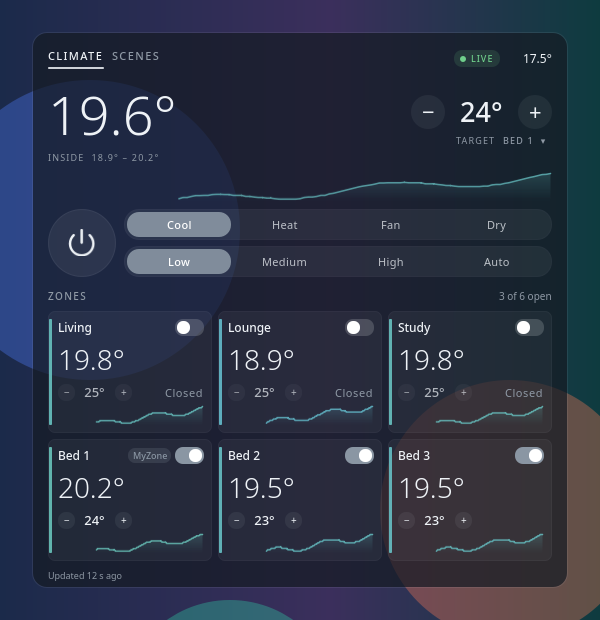
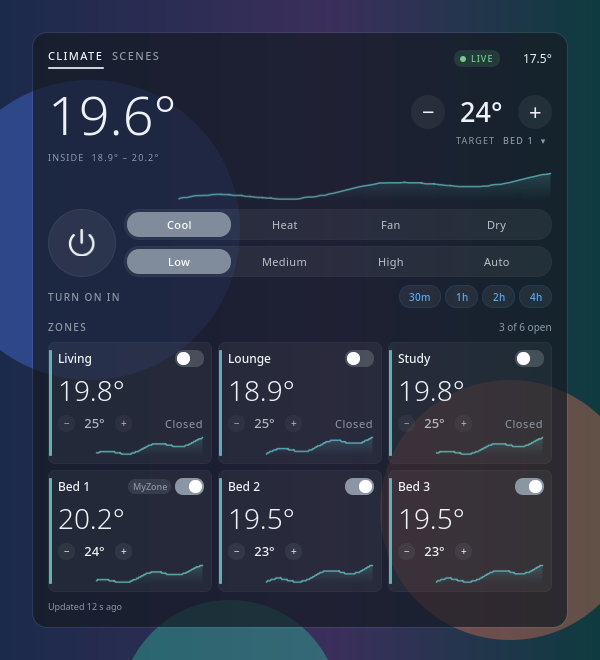
feat: quick on/off timer on the climate page
Presets of 30 min to 4 h set the unit's countDownToOff (while running)
or countDownToOn (while off); a running timer shows the time left with
+30m and Cancel. Taps within 600 ms of a timer change are ignored, since
the buttons swap places under the pointer.

diff --git a/contents/ui/DeckView.qml b/contents/ui/DeckView.qml
@@ -117,6 +117,25 @@ Item {
             client.command(cmd, 0, true);
     }
 
+    // 85 -> "1 h 25 min"; compact: 30 -> "30m", 120 -> "2h".
+    function duration(minutes, compact) {
+        const h = Math.floor(minutes / 60), m = minutes % 60;
+        if (compact)
+            return h === 0 ? i18n("%1m", m) : m === 0 ? i18n("%1h", h) : i18n("%1h %2m", h, m);
+        return h === 0 ? i18n("%1 min", m) : m === 0 ? i18n("%1 h", h) : i18n("%1 h %2 min", h, m);
+    }
+
+    // The buttons swap places when a timer starts or stops, so a fast second
+    // click would land on a different one; ignore it.
+    property double lastTimerTap: 0
+    function setCountdown(minutes) {
+        const now = Date.now();
+        if (now - lastTimerTap < 600)
+            return;
+        lastTimerTap = now;
+        client.command(MyPlace.countdownPayload(info, minutes), 0);
+    }
+
     // A short message over the footer; errors show in red.
     function notify(message, isError) {
         toast.message = message;
@@ -490,6 +509,62 @@ Item {
                     }
                 }
 
+                // Quick timer: the unit's own countdown to off (while on) or on.
+                RowLayout {
+                    id: timerRow
+                    objectName: "timerRow"
+                    readonly property int remaining: MyPlace.countdownMinutes(root.info)
+                    readonly property color tone: root.unitOn ? root.accent : root.modeAccents[root.info.mode] || root.colors.neutral
+                    Layout.fillWidth: true
+                    spacing: Kirigami.Units.smallSpacing
+                    Controls.Label {
+                        text: timerRow.remaining > 0
+                            ? (root.unitOn ? i18n("OFF IN") : i18n("ON IN"))
+                            : (root.unitOn ? i18n("TURN OFF IN") : i18n("TURN ON IN"))
+                        color: timerRow.remaining > 0 ? timerRow.tone : root.colors.muted
+                        font.pixelSize: Kirigami.Units.gridUnit * 0.55
+                        font.weight: Font.DemiBold
+                        font.letterSpacing: 1.4
+                    }
+                    Controls.Label {
+                        visible: timerRow.remaining > 0
+                        text: root.duration(timerRow.remaining)
+                        color: root.colors.ink
+                        font.pixelSize: Kirigami.Units.gridUnit * 0.75
+                        font.features: { "tnum": 1 }
+                    }
+                    Item { Layout.fillWidth: true }
+                    Repeater {
+                        model: timerRow.remaining > 0 ? [] : [30, 60, 120, 240]
+                        delegate: PillButton {
+                            required property int modelData
+                            objectName: "timer" + modelData
+                            text: root.duration(modelData, true)
+                            ink: root.colors.ink
+                            tone: timerRow.tone
+                            interactive: root.canControl
+                            onClicked: root.setCountdown(modelData)
+                        }
+                    }
+                    PillButton {
+                        visible: timerRow.remaining > 0
+                        text: i18n("+30m")
+                        ink: root.colors.ink
+                        tone: timerRow.tone
+                        interactive: root.canControl && timerRow.remaining < MyPlace.MAX_COUNTDOWN
+                        onClicked: root.setCountdown(timerRow.remaining + 30)
+                    }
+                    PillButton {
+                        objectName: "timerCancel"
+                        visible: timerRow.remaining > 0
+                        text: i18n("Cancel")
+                        ink: root.colors.ink
+                        tone: root.colors.ink
+                        interactive: root.canControl
+                        onClicked: root.setCountdown(0)
+                    }
+                }
+
                 RowLayout {
                     Layout.fillWidth: true
                     Layout.topMargin: Kirigami.Units.smallSpacing
@@ -558,18 +633,6 @@ Item {
                         color: root.colors.bad
                         font.pixelSize: Kirigami.Units.gridUnit * 0.52
                         font.weight: Font.DemiBold
-                    }
-                    Controls.Label {
-                        visible: root.unitOn && root.info.countDownToOff > 0
-                        text: i18n("Off in %1 min", root.info.countDownToOff)
-                        color: root.colors.muted
-                        font.pixelSize: Kirigami.Units.gridUnit * 0.52
-                    }
-                    Controls.Label {
-                        visible: !root.unitOn && root.info.countDownToOn > 0
-                        text: i18n("On in %1 min", root.info.countDownToOn)
-                        color: root.colors.muted
-                        font.pixelSize: Kirigami.Units.gridUnit * 0.52
                     }
                 }
                 Item { Layout.fillHeight: true }

diff --git a/tests/tst_view.qml b/tests/tst_view.qml
@@ -82,4 +82,30 @@ TestCase {
         verify(deck.zones.find(z => z.key === "z01").isMyZone);
         verify(findChild(deck, "myZoneChip").visible);
     }
+
+    function test_quick_timer() {
+        tablet.log = [];
+        // Unit is off in the fixture, so presets set the turn-on countdown.
+        const preset = findChild(deck, "timer60");
+        verify(preset !== null && preset.visible);
+        mouseClick(preset);
+        compare(JSON.stringify(tablet.commands()), '[{"ac1":{"info":{"countDownToOn":60}}}]');
+        compare(deck.duration(60), "1 h");
+        compare(deck.duration(85), "1 h 25 min");
+        compare(deck.duration(90, true), "1h 30m");
+        // The tablet reports it counting down; Cancel sends 0.
+        tablet.system.aircons.ac1.info.countDownToOn = 59;
+        client.poll();
+        const cancel = findChild(deck, "timerCancel");
+        tryVerify(() => cancel.visible);
+        waitForRendering(deck);
+        deck.lastTimerTap = 0;
+        tablet.log = [];
+        mouseClick(cancel);
+        compare(JSON.stringify(tablet.commands()), '[{"ac1":{"info":{"countDownToOn":0}}}]');
+        // An immediate second click on whatever replaced Cancel is ignored.
+        waitForRendering(deck);
+        mouseClick(findChild(deck, "timer240"));
+        compare(tablet.commands().length, 1);
+    }
 }

diff --git a/contents/ui/myplace.js b/contents/ui/myplace.js
@@ -373,3 +373,23 @@ function validSceneName(name) {
     var n = String(name || "").trim();
     return n.length > 0 && n.length <= 12 && n.indexOf("\\") < 0;
 }
+
+// ---- Quick timer --------------------------------------------------------------
+// The unit's own countdowns: minutes until it turns off (while on) or on (while off).
+
+var MAX_COUNTDOWN = 720;
+
+function countdownField(info) {
+    return info && info.state === "on" ? "countDownToOff" : "countDownToOn";
+}
+
+function countdownMinutes(info) {
+    var m = Number(info ? info[countdownField(info)] : 0);
+    return isFinite(m) && m > 0 ? m : 0;
+}
+
+function countdownPayload(info, minutes) {
+    var out = { info: {} };
+    out.info[countdownField(info)] = Math.max(0, Math.min(MAX_COUNTDOWN, Math.round(Number(minutes) || 0)));
+    return out;
+}

diff --git a/tests/tst_myplace.qml b/tests/tst_myplace.qml
@@ -145,4 +145,13 @@ TestCase {
         compare(p.aircons.ac1.zones.z04.setTemp, 24);
         compare(p.lights, undefined); // only what we manage
     }
+
+    function test_countdown() {
+        compare(MyPlace.countdownField({ state: "on" }), "countDownToOff");
+        compare(MyPlace.countdownField({ state: "off" }), "countDownToOn");
+        compare(MyPlace.countdownMinutes({ state: "on", countDownToOff: 45, countDownToOn: 9 }), 45);
+        compare(MyPlace.countdownMinutes({ state: "off", countDownToOn: 0 }), 0);
+        compare(JSON.stringify(MyPlace.countdownPayload({ state: "off" }, 900)), '{"info":{"countDownToOn":720}}');
+        compare(JSON.stringify(MyPlace.countdownPayload({ state: "on" }, 0)), '{"info":{"countDownToOff":0}}');
+    }
 }

diff --git a/scripts/tst_preview.qml b/scripts/tst_preview.qml
@@ -9,7 +9,7 @@ TestCase {
     id: preview
     name: "Screenshots"
     width: 600
-    height: 620
+    height: 660
     visible: true
     when: windowShown
     property string fixture: ""
@@ -92,12 +92,14 @@ TestCase {
         ac.info.mode = "heat";
         ac.info.fan = "autoAA";
         ac.zones.z03.state = "open";
+        ac.info.countDownToOff = 85;
         client.poll();
         deck.themeMode = "dark";
         save("climate-deck-heating");
 
         // Scenes page, with the morning warm-up on a timer.
         ac.info.state = "off";
+        ac.info.countDownToOff = 0;
         tablet.system.myScenes.scenes.s10002.timerEnabled = true;
         client.poll();
         deck.page = 1;

diff --git a/README.md b/README.md
@@ -23,6 +23,7 @@ Scenes have their own page, with an editor for days, times and the aircon settin
 - **Header.** Site and aircon name, link status (`LIVE`, `RETRYING`, `OFFLINE`) and the outdoor temperature when the tablet has a valid reading.
 - **Inside.** The average of every zone with a working sensor, the coldest-to-warmest range, and a trace of the last few hours.
 - **Target and MyZone.** The set point, with − and +. When a MyZone is set, this is the MyZone zone's target, matching the MyPlace app. Click the zone name under the target (`BED 1 ▾`) to pick a different MyZone, the zone the system optimises for. Only zones with a working sensor are listed; choosing a closed zone opens it, as the app does.
+- **Quick timer.** Under the mode and fan selectors: turn the unit off in (while it runs) or on in (while it's off) 30 min, 1 h, 2 h or 4 h. While a timer runs, the row shows the time left, with **+30m** and **Cancel**. The tablet runs the countdown itself, up to 12 hours.
 - **Power, mode and fan.** Cool, Heat, Fan, Dry, plus MyAuto if it is enabled on your system. Low, Medium, High and Auto. Auto is MyFan when the system supports it.
 - **Zones.** Each zone shows:
   - its temperature, with a colour strip running from icy blue to warm red
@@ -31,7 +32,7 @@ Scenes have their own page, with an editor for days, times and the aircon settin
   - a MyZone badge where it applies
   - sensor warnings
   - a history sparkline
-- **Footer.** How fresh the data is, unit error codes, the filter-clean reminder and on/off timers.
+- **Footer.** How fresh the data is, unit error codes and the filter-clean reminder.
 - **Scenes** (the second tab). These are the scenes stored on the tablet:
   - Each card shows the days, the start and stop times, and what the scene sets (mode, target, fan, open zones with ★ for the MyZone).
   - **Run now** applies a scene at once.

diff --git a/docs/API.md b/docs/API.md
@@ -226,7 +226,7 @@ Payload (URL-encode it; NanoHTTPD decodes the parameter):
 | `fan` | `low`, `medium`, `high`, `auto`, `autoAA` |
 | `setTemp` | The protocol carries 0.5 °C steps (`setTemp*2` in the unit frame), but the tablet **doesn't range-check it**. The app uses whole degrees from **16 to 32**, and clients should clamp to that. |
 | `myZone` | 0–10 |
-| `countDownToOn`, `countDownToOff` | Minutes, 0–720. 0 cancels. |
+| `countDownToOn`, `countDownToOff` | Minutes, 0–720. 0 cancels. The tablet counts them down itself, and `721` is rejected with `Aircon countDownToOn cannot be greater than 720 minutes`. **Verified** |
 | `freshAirStatus` | `on`, `off`. Ignored if fresh air isn't fitted. |
 | `myAutoModeEnabled`, `myAutoCoolTargetTemp` (20–32), `myAutoHeatTargetTemp` (16–28, at least 4 below cool), `quietNightModeEnabled`, `climateControlModeEnabled`, `aaAutoFanModeEnabled` | Feature settings. |
 | `name` | 12 characters max. |

diff --git a/CHANGELOG.md b/CHANGELOG.md
@@ -1,5 +1,9 @@
 # Changelog
 
+## Unreleased
+
+- Quick timer on the climate page: turn off (or on) in 30 min to 4 h, with +30m and Cancel, using the unit's own countdown.
+
 ## 0.2.0 — 2026-10-16
 
 - Scenes page: run, create, edit and delete scenes, and switch their timers, with days, start and stop times, and the aircon settings each applies.
